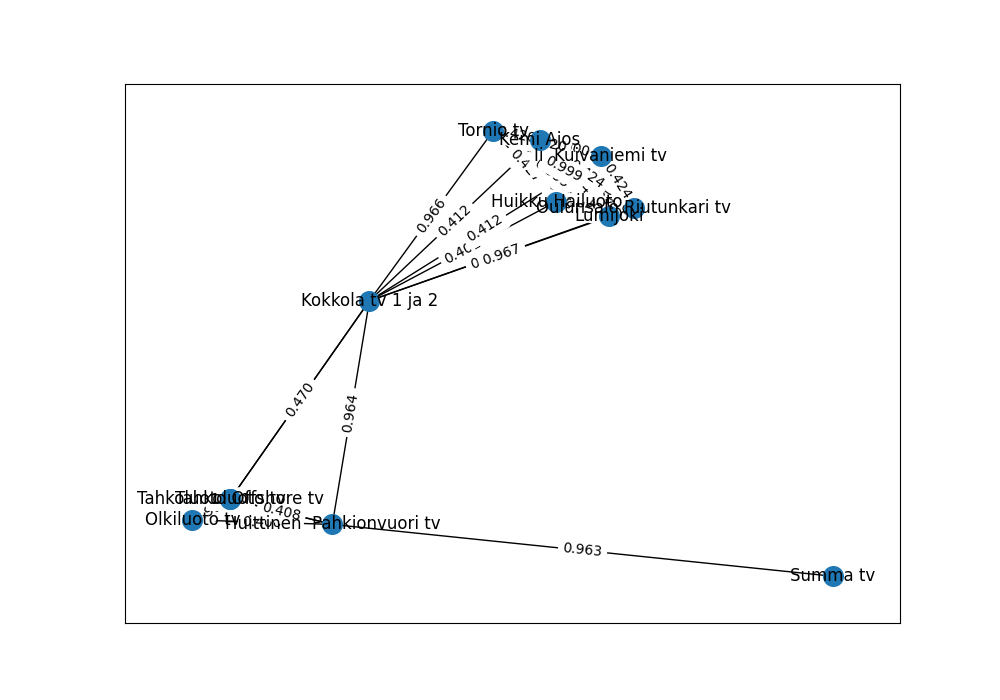
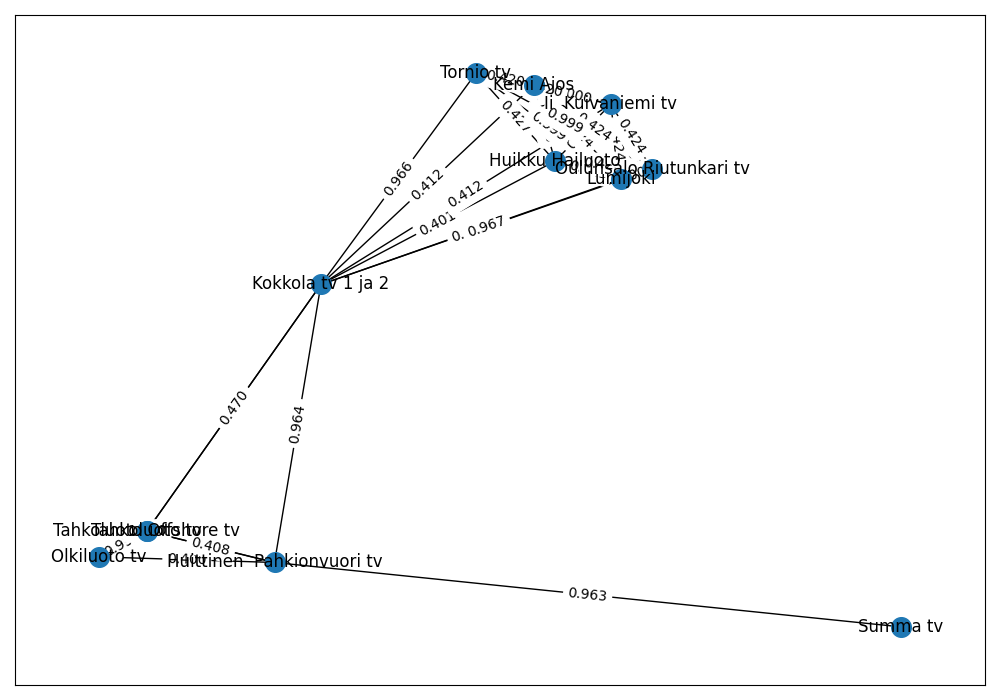
added coloring to nodes with high betweenes and risk score

diff --git a/main.py b/main.py
@@ -324,7 +324,7 @@ nx.draw_networkx_edges(G, pos)
 nx.draw_networkx_labels(G, pos)
 
 nx.draw_networkx_edge_labels(G, pos, edge_labels=labels_round)
-
+plt.tight_layout()
 #nx.draw_networkx_edge_labels(G,pos,edge_labels=labels,connectionstyle="arc3")
 plt.savefig("plots_and_fiqures/network.png")
 plt.show()
@@ -385,6 +385,15 @@ critical = df_analysis[
 
 print("critical locations in network: ")
 print(critical)
+color_map = []
+for node in G:
+    if node in critical["location"].to_list():
+        color_map.append("red")
+    else:
+        color_map.append("blue")
+        
+nx.draw(G,pos, node_color=color_map, with_labels=True)
+plt.show()
 
 #-----------------Task 11-----------------------------------
 #df_all_wind has all of the wind data in one frame this can be groubed() with datetime
